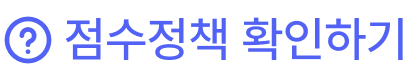
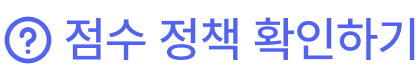
REFACT : QR, 짜잘한 ui

diff --git a/lib/controllers/qr_controller.dart b/lib/controllers/qr_controller.dart
@@ -48,6 +48,7 @@ void onQRViewCreated(QRViewController controller) {
 
   controller.scannedDataStream.listen((scanData) async {
     if (!isScanned && !_isScanning) {
+      controller.pauseCamera();
       
       result.value = scanData; // 스캔 결과 저장
 
@@ -72,12 +73,13 @@ void onQRViewCreated(QRViewController controller) {
 
       // 백엔드 호출하여 QR 유효성 검사
       AttendanceResponse? response = await _validateQR(requestDTO);
-      print(response?.attended);
       if (response != null && response.attended) {
         _showAttendanceDialog('출석이 완료되었어요.', '출석', 'check_success.png', Colors.green);
       } else {
         _showAttendanceDialog('지각 처리되었어요', '지각', 'warning.png', Colors.red);
       }
+      _isScanning = false;
+      controller.resumeCamera();
       
     } else {
       _showAttendanceDialog(
@@ -87,42 +89,43 @@ void onQRViewCreated(QRViewController controller) {
         primaryBlue,
       );
     }
+    _isScanning = false;
   });
 }
 
-Future<AttendanceResponse?> _validateQR(QRAttendanceRequestDTO requestDTO) async {
-  if (_isScanning) {
-    print('QR 코드 스캔이 이미 진행 중입니다.');
-    return null;
-  }
-
-  _isScanning = true;
-  try {
-    Map<String, dynamic> requestBody = requestDTO.toJson();
-    final response = await http.post(
-      Uri.parse('${dotenv.env['SERVER_URL']}/v1/validQR'),
-      headers: {
-        'Content-Type': 'application/json',
-        'Cookie': 'Authorization=${authController.obxToken.value}',
-      },
-      body: jsonEncode(requestBody),
-    );
-
-    if (response.statusCode == 200) {
-      print(response.body);
-      return AttendanceResponse.fromJson(jsonDecode(response.body));
-    } else {
-      print('200 아님 : ${response.statusCode}');
-      print({response.body});
+Future<AttendanceResponse?> _validateQR(
+      QRAttendanceRequestDTO requestDTO) async {
+    if (_isScanning) {
+      print('QR 코드 스캔이 이미 진행 중입니다.');
       return null;
-    }
-  } catch (e) {
-    print('Error validating QR: $e');
-    return null;
-  } finally {
-    _isScanning = false;
+    } 
+      try {
+        Map<String, dynamic> requestBody = requestDTO.toJson();
+        final response = await http.post(
+          Uri.parse('${dotenv.env['SERVER_URL']}/v1/validQR'),
+          headers: {
+            'Content-Type': 'application/json',
+            'Cookie': 'Authorization=${authController.obxToken.value}',
+          },
+          body: jsonEncode(requestBody),
+        );
+
+        if (response.statusCode == 200) {
+          print('200 맞음 : ${response.statusCode}');
+          return AttendanceResponse.fromJson(jsonDecode(response.body));
+        } else {
+          print('200 아님 : ${response.statusCode}');
+          print({response.body});
+          return null;
+        }
+      } catch (e) {
+        print('Error validating QR: $e');
+        return null;
+      } finally {
+        _isScanning = false;
+      }
+    
   }
-}
 
 
   void _showInvalidQRDialog() {

diff --git a/lib/component/next_button.dart b/lib/component/next_button.dart
@@ -13,50 +13,55 @@ class NextButton extends StatelessWidget {
   const NextButton(
     this.title,
     this.route,
-    this.isNext, {super.key, 
+    this.isNext, {
+    super.key, 
     this.function,
   });
 
   @override
   Widget build(BuildContext context) {
-    Rx<FlutterSecureStorage> sStorage = const FlutterSecureStorage().obs;
+    // Initialize FlutterSecureStorage inside the build method
+    const FlutterSecureStorage sStorage = FlutterSecureStorage();
+
     return GestureDetector(
-        child: Container(
-          width: 327.w,
-          height: 56.h,
-          decoration: BoxDecoration(
-            gradient: isNext
-                ? LinearGradient(
-                    colors: [
-                      Theme.of(context).colorScheme.onSecondary,
-                      Theme.of(context).colorScheme.secondary,
-                    ],
-                    begin: Alignment.centerLeft,
-                    end: Alignment.centerRight,
-                  )
-                : null,
-            color: !isNext ? grayScale[30] : null,
-            borderRadius: BorderRadius.all(Radius.circular(8.w)),
-          ),
-          child: Center(
-            child: Text(
-              title,
-              style: TextStyle(
-                  fontSize: 18.sp,
-                  fontWeight: FontWeight.w600,
-                  height: 24.h / 18.h,
-                  color: whiteScale[100]),
+      onTap: () async {
+        if (isNext) {
+          if (function != null) {
+            function!();  // Call the passed function if not null
+          }
+          await sStorage.write(key: 'tos', value: 'agree'); // Save the agreement in secure storage
+          await Get.toNamed(route);  // Navigate to the specified route
+        }
+      },
+      child: Container(
+        width: 327.w,
+        height: 56.h,
+        decoration: BoxDecoration(
+          gradient: isNext
+              ? LinearGradient(
+                  colors: [
+                    Theme.of(context).colorScheme.onSecondary,
+                    Theme.of(context).colorScheme.secondary,
+                  ],
+                  begin: Alignment.centerLeft,
+                  end: Alignment.centerRight,
+                )
+              : null,
+          color: !isNext ? grayScale[30] : null,
+          borderRadius: BorderRadius.all(Radius.circular(8.w)),
+        ),
+        child: Center(
+          child: Text(
+            title,
+            style: TextStyle(
+              fontSize: 18.sp,
+              fontWeight: FontWeight.w600,
+              height: 24.h / 18.h,
+              color: whiteScale[100],
             ),
           ),
         ),
-        onTap: () async {
-          if (isNext) {
-            if (function != null) {
-              function;
-            }
-            await sStorage.value.write(key : 'tos', value : 'agree'); // 이용약관 동의 저장
-            await Get.toNamed(route);
-          }
-        });
+      ),
+    );
   }
 }

diff --git a/lib/Views/my_point_view.dart b/lib/Views/my_point_view.dart
@@ -140,7 +140,7 @@ class _MyPointViewState extends State<MyPointView> {
                           Get.toNamed('/overallRanking');
                         },
                         child: Text(
-                          '전체랭킹 확인하기',
+                          '전체 랭킹 확인하기',
                           style:
                               Theme.of(context).textTheme.titleMedium!.copyWith(
                                     color: grayScale[30],
@@ -394,8 +394,9 @@ class _MyPointViewState extends State<MyPointView> {
 
       List<ReasonBonus> sortedPoints = springPointController.pointReasonList.toList();
 
+      print(sortedPoints);
+
       if (sortedPoints.isNotEmpty) {
-        // Sort points by date
         sortedPoints.sort((a, b) => b.createAt.compareTo(a.createAt));
 
         return SingleChildScrollView(
@@ -431,7 +432,30 @@ class _MyPointViewState extends State<MyPointView> {
           ),
         );
       } else {
-        return Container();
+        return 
+Padding(
+  padding: EdgeInsets.symmetric(horizontal: 27.25.w), // Apply padding to the parent
+  child: Container(
+    constraints: BoxConstraints(maxHeight: 92.h),
+    width: double.infinity,
+    height: 92.h,
+    decoration: BoxDecoration(
+      borderRadius: BorderRadius.circular(8.r),
+      color: containerBackgroundColor,
+    ),
+    child: Center(
+      child: Text(
+        '파드에 등록되지 않은 이메일이거나\n파드너십 및 벌점 목록이 비어있습니다.',
+        textAlign: TextAlign.center,
+        style: Theme.of(context).textTheme.titleLarge,
+        maxLines: 2, 
+        overflow: TextOverflow.ellipsis, 
+      ),
+    ),
+  ),
+);
+
+
       }
     });
   }

diff --git a/lib/Views/tos_view.dart b/lib/Views/tos_view.dart
@@ -25,7 +25,7 @@ class TosView extends StatelessWidget {
             () => Center(
               child: Column(
                 children: [
-                  TosDescription('서비스 가입 및 이용을 위해', '서비스 이용약관', '에 동의해주세요'),
+                  const TosDescription('서비스 가입 및 이용을 위해', '서비스 이용약관', '에 동의해주세요'),
                   SizedBox(
                     height: 48.h,
                   ),
@@ -54,8 +54,8 @@ class TosView extends StatelessWidget {
                   SizedBox(
                     height: 16.h,
                   ),
-                  TosAgreement(
-                      '개인정보 처리방침',
+                  const TosAgreement(
+                      '개인정보 수집 및 이용 동의 (필수)',
                       'https://we-pard.notion.site/Pard-APP-fc37c472e47941d3958765587b57e21f?pvs=4',
                       '서비스 이용약관(필수)',
                       'https://we-pard.notion.site/Pard-APP-74f6a4d8383d4e4993f28e9463b0d9b0?pvs=4'),

diff --git a/lib/component/tos_statement.dart b/lib/component/tos_statement.dart
@@ -12,7 +12,7 @@ class TosAgreement extends StatelessWidget {
   final String tosStatement;
   final String tosUrl;
 
-  TosAgreement(this.pipStatement, this.pipUrl, this.tosStatement, this.tosUrl,);
+  const TosAgreement(this.pipStatement, this.pipUrl, this.tosStatement, this.tosUrl, {super.key});
 
   @override
   Widget build(BuildContext context) {
@@ -103,10 +103,10 @@ class TosDescription extends StatelessWidget {
   final String string2;
   final String string3;
 
-  TosDescription(
+  const TosDescription(
     this.string1,
     this.string2,
-    this.string3,
+    this.string3, {super.key}
   );
 
   @override
@@ -162,9 +162,9 @@ class TosCheckbox extends StatelessWidget {
   final RxBool isAgree;
   final double height;
 
-  TosCheckbox(
+  const TosCheckbox(
     this.isAgree,
-    this.height,
+    this.height, {super.key}
   );
 
   @override
